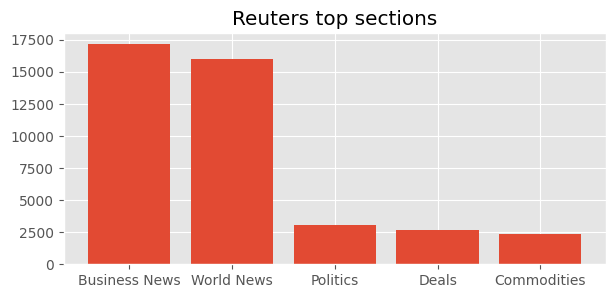
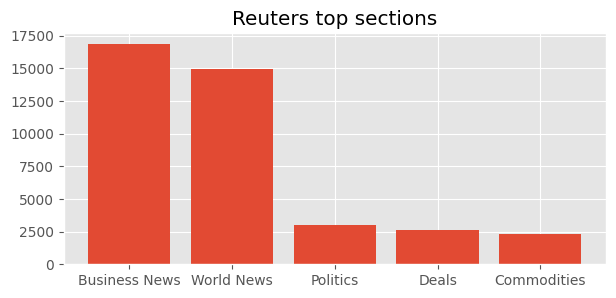
correct data images

diff --git a/content/data-description.md b/content/data-description.md
@@ -29,11 +29,11 @@ After preprocessing the data, we end up with substantially fewer articles as see
 
 |            Stat             |  Reuters  |   NYT   |
 |:---------------------------:|:--------:|:---------:|
-|           #Articles            |  56,046  |   24,377   |
+|           #Articles            |  57,128  |   23,796   |
 |           #Sections            |  39  |   21   |
-|         #Authors         |  1,952   |   1,287   |
-|        Avg. words pr. article        |    608     |     1094     |
-|        Avg. #articles pr. author        |    29     |     19     |
+|         #Authors         |  1,951   |   1,318   |
+|        Avg. words pr. article        |    622     |     1204     |
+|        Avg. #articles pr. author        |    29     |     18     |
 
 Each article has a section attribute which allow us to get an overview of which topics are most important to the two publications
 ![](/images/reuters_top_5_sections.png)
@@ -42,7 +42,7 @@ Each article has a section attribute which allow us to get an overview of which 
 
 We see that both publications have "world news" and "business news" in their top sections, it's clear that they emphasize subjects differently. Perhaps not surprisingly, the NYT focuses on US news while Reuters provide a more international perspective with having business first. This fits well with our initial assumptions of Reuters being a more international publication being frequently quoted in even Danish newspapers. With a more international profile, it's not surprising that Reuters have 18 more sections than the NYT although this could be a result of Reuters having almost twice the number of articles and more than 50% more authors in the dataset than the NYT.
 
-Looking at the distribution of number of word pr. article, it's apparent that the NYT has a pretty long-tailed distribution (notice the y-axis is log scaled) with some pieces having more then 11,000 words.
+Looking at the distribution of number of word pr. article, it's apparent that the NYT has a pretty long-tailed distribution (notice the y-axis is log scaled) with some pieces having more then 10,000 words.
 The Reuters articles are significantly shorter with the longest ones being just above 5,000 words. We also notice that the bin with the most articles has about 500 words for Reuters but around 1,000 for the NYT. This is also reflected in the statistics table with the NYT having almost twice as many words pr. article as Reuters on average.
 ![](/images/nyt_word_count.png)
 
